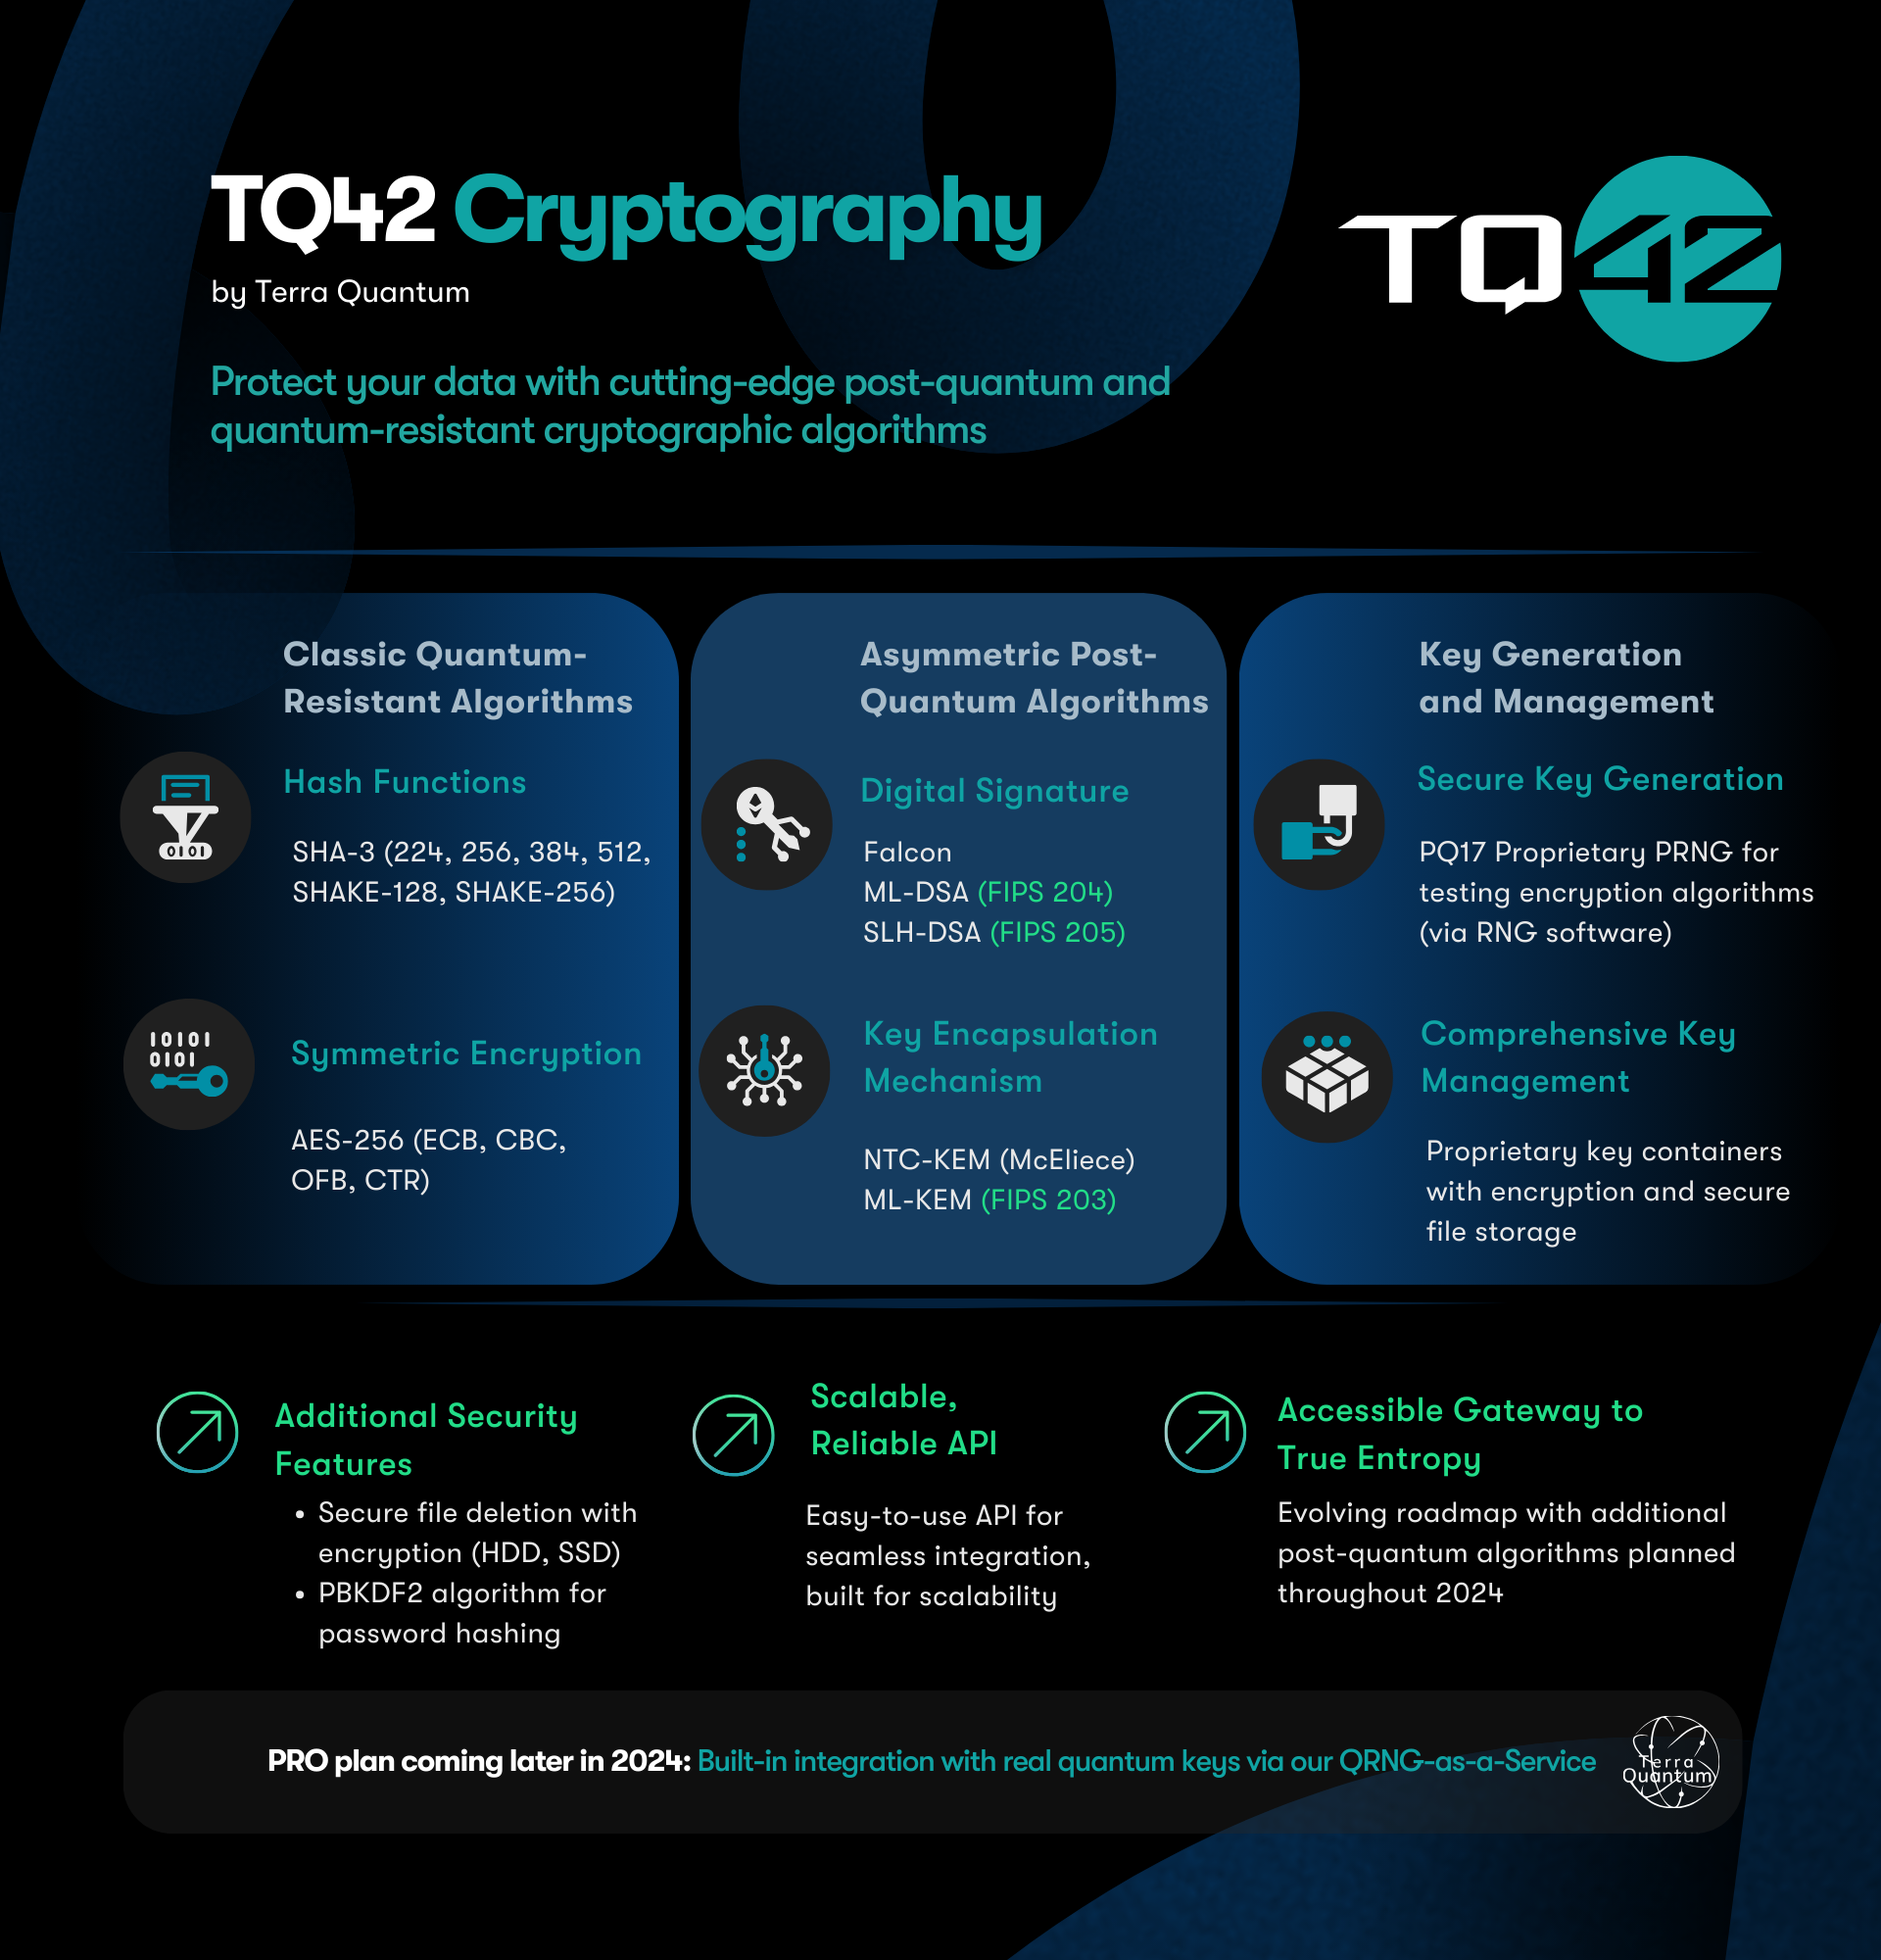
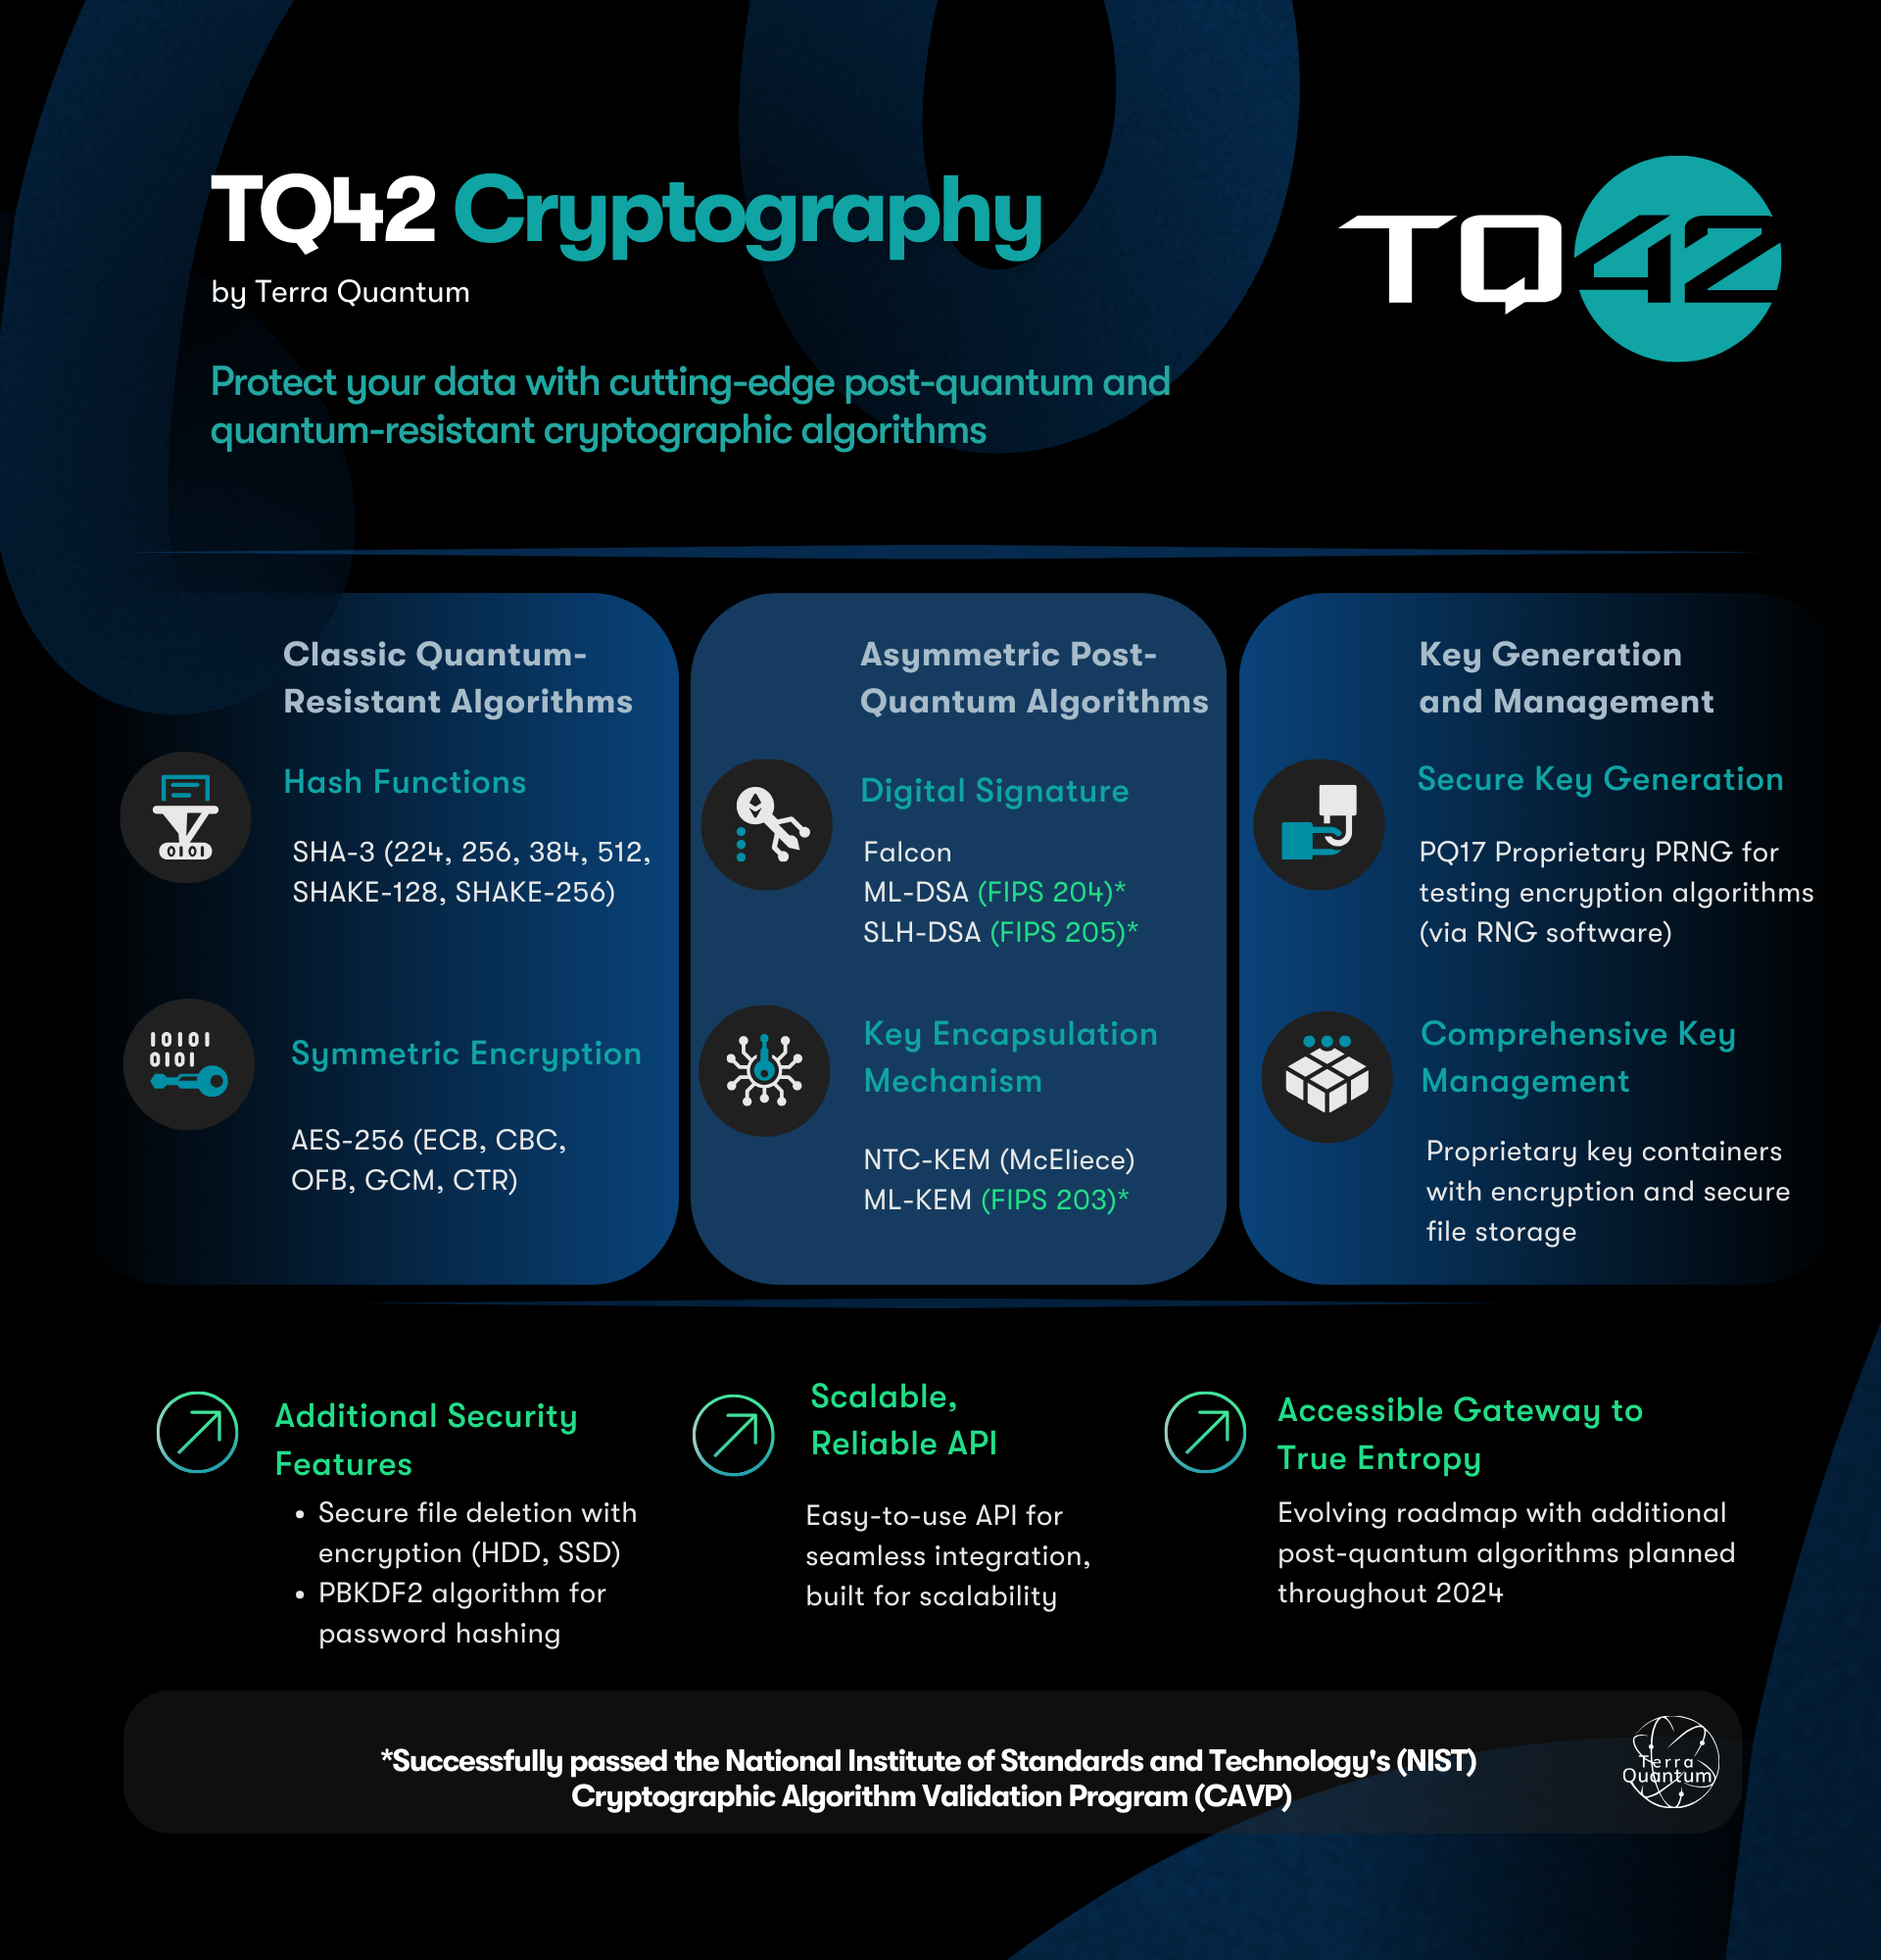
CAVP readme update
GitOrigin-RevId: cff571a6b139c8d7a02fe6187ec75c9af1579807

Changed region(s): [[0.25, 0.868, 0.7812, 0.93], [0.1562, 0.868, 0.2188, 0.93], [0.2188, 0.589, 0.2812, 0.62]]

diff --git a/README.md b/README.md
@@ -14,6 +14,23 @@ This open-source C++ library offers a unified API for both post-quantum (PQ) and
 
 The library will expand to include support for additional languages (e.g., Python, iOS, Android), additional post-quantum algorithms, and upgrade options, like the ability to purchase quantum keys generated from Terra Quantum's proprietary Single Photon Quantum Random Number Generator (QRNG), which is designed and implemented according to the latest NIST standard (SP 800-90B) and certified by METAS.
 
+# CAVP Certificates
+
+The TQ42 Cryptography implementations of the Post-Quantum algorithms ML-KEM, ML-DSA, and SLH-DSA, comply with the latest NIST standards (FIPS 203, 204, and 205). These algorithms have also been validated through the NIST Cryptographic Algorithm Validation Program (CAVP). For further details, please visit the NIST CAVP [webpage](https://csrc.nist.gov/projects/cryptographic-algorithm-validation-program/details?product=18351).
+
+The validation process spans multiple operating systems and hardware configurations, including:
+
+- Red Hat 9.4 
+- Ubuntu 24.04 
+- Windows 11 
+- Windows 2022 
+- IOS 17.5.1
+- Android 14
+
+# Advanced Quantum Security
+
+Terra Quantum offers advanced quantum security products, including the Terra Quantum Secure Network (TQSN), a novel solution for organizations looking for full security via Quantum Key Distribution (QKD), a revolutionary technology that leverages the quantum mechanical properties of light and allows for the distribution of cryptographic keys with absolute security, making decryption impossible. Terra Quantum's patented Secure Network solution (TQSN) works well over long distances with high bit rates. It is the world's first scalable, zero-trust Secure Network for global communications. Visit [terraquantum.swiss](https://terraquantum.swiss) to learn more, or contact us at info@terraquantum.swiss.
+
 # TQ42 Cryptography Features
 
 ## Included Features
@@ -29,7 +46,7 @@ Hash Function:
 
 Symmetric Encryption:
 
--   [AES-256](https://terra-quantum-public.github.io/tq42-pqc-oss/classic_quantum_resistant_algs/aes.html) (modes: ECB, CBC, OFB, CTR) 
+-   [AES-256](https://terra-quantum-public.github.io/tq42-pqc-oss/classic_quantum_resistant_algs/aes.html) (modes: GCM, ECB, CBC, OFB, CTR) 
 
 ### Post-Quantum Algorithms
 
@@ -50,14 +67,6 @@ Digital Signature:
 -   [Key Containers](https://terra-quantum-public.github.io/tq42-pqc-oss/keys/keys_container.html)
 -   [PBKDF2](https://terra-quantum-public.github.io/tq42-pqc-oss/keys/pbkdf2.html)
 
-## Security Notice
-While there are no known vulnerabilities in the quantum-safe algorithms within this library, caution is crucial. These algorithms have not undergone the same level of scrutiny as currently deployed ones. The NIST Post-Quantum Cryptography Standardization project's guidance should be followed diligently. As research progresses, algorithm security may rapidly change, including potential vulnerabilities to classical and quantum computers.
-
-TQ42 Cryptography aligns its algorithm support with the NIST PQC standardization project. Applications and protocols should rely on outcomes from this effort for post-quantum cryptography deployment.
-
-For those considering quantum-safe cryptography before the NIST PQC standardization project concludes, we strongly recommend using hybrid cryptography. This approach combines quantum-safe public-key algorithms with existing traditional cryptography.
-
-Terra Quantum offers advanced quantum security products, including the Terra Quantum Secure Network (TQSN), a novel solution for organizations looking for full security via Quantum Key Distribution (QKD), a revolutionary technology that leverages the quantum mechanical properties of light and allows for the distribution of cryptographic keys with absolute security, making decryption impossible. Terra Quantum's patented Secure Network solution (TQSN) works well over long distances with high bit rates. It is the world's first scalable, zero-trust Secure Network for global communications. Visit [terraquantum.swiss](https://terraquantum.swiss) to learn more, or contact us at info@terraquantum.swiss.
 
 # Licenses
 The TQ42 Cryptography library is available under two primary licensing options to accommodate the diverse needs of organizations at different stages of their post-quantum migration journeys: 
